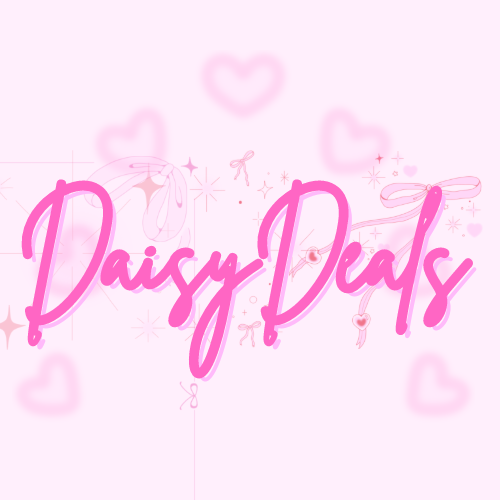
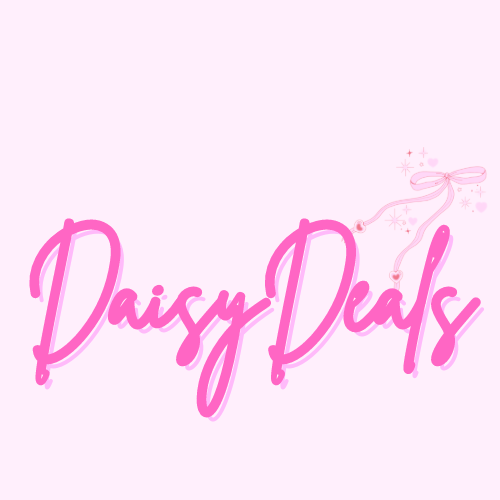
navbar images

diff --git a/src/components/HomePage.css b/src/components/HomePage.css
@@ -1,0 +1,226 @@
+/* General Styling */
+body {
+    margin: 0;
+    font-family: 'Arial', sans-serif;
+    background-color: #FFEFFC; /* Matching the background color */
+    color: #333;
+  }
+  
+  /* Navbar */
+  .navbar {
+    display: flex;
+    justify-content: space-between;
+    align-items: center;
+    background-color: #FFEFFC; /* Light pink background */
+    padding: 10px 20px;
+    box-shadow: 0 2px 4px rgba(0, 0, 0, 0.1);
+    position: sticky;
+    top: 0;
+    z-index: 1000;
+  }
+  
+  .logo img {
+    height: 40px;
+    width: 140px;
+  }
+  
+  .nav-links {
+    list-style: none;
+    display: flex;
+    gap: 20px;
+  }
+  
+  .nav-links li {
+    display: inline;
+  }
+  
+  .nav-links a {
+    text-decoration: none;
+    color: #333;
+    font-size: 1rem;
+    transition: color 0.3s ease;
+  }
+  
+  .nav-links a:hover {
+    color: #FF1493;
+  }
+  
+  .nav-links .new {
+    position: relative;
+  }
+  
+  .nav-links .new span {
+    color: #FF1493;
+    font-size: 0.75rem;
+    position: absolute;
+    top: -10px;
+    right: -20px;
+  }
+  
+  .nav-icons {
+    display: flex;
+    align-items: center;
+    gap: 20px;
+  }
+  
+  .nav-icons a {
+    text-decoration: none;
+    color: #333;
+    font-size: 1rem;
+    display: flex;
+    align-items: center;
+    gap: 5px;
+    transition: color 0.3s ease;
+  }
+  
+  .nav-icons a:hover {
+    color: #FF1493;
+  }
+  
+  .search-box {
+    display: flex;
+    align-items: center;
+    border: 1px solid #ccc;
+    border-radius: 5px;
+    padding: 5px 10px;
+    background-color: #fff;
+  }
+  
+  .search-box input {
+    border: none;
+    outline: none;
+    padding: 5px;
+  }
+  
+  .search-box button {
+    background: none;
+    border: none;
+    cursor: pointer;
+    color: #ccc;
+  }
+  
+  .search-box button:hover {
+    color: #FF1493;
+  }
+  
+  /* Hero Section */
+  .hero-section {
+    background-color: #FFCCE5; /* Light pink background */
+    padding: 50px;
+    text-align: center;
+  }
+  
+  .hero-content {
+    max-width: 600px;
+    margin: 0 auto;
+  }
+  
+  .hero-content h1 {
+    font-size: 2.5rem;
+    color: #FF69B4;
+  }
+  
+  .hero-content p {
+    font-size: 1.2rem;
+    margin: 20px 0;
+  }
+  
+  .shop-now-button {
+    background-color: #FF69B4;
+    color: #fff;
+    border: none;
+    padding: 10px 20px;
+    font-size: 1rem;
+    cursor: pointer;
+    border-radius: 5px;
+    transition: background-color 0.3s ease;
+  }
+  
+  .shop-now-button:hover {
+    background-color: #FF1493;
+  }
+  
+  /* Categories Section */
+  .categories-section {
+    padding: 50px;
+    text-align: center;
+  }
+  
+  .categories-section h2 {
+    font-size: 2rem;
+    color: #FF69B4;
+  }
+  
+  .categories {
+    display: flex;
+    justify-content: center;
+    gap: 20px;
+    margin-top: 20px;
+  }
+  
+  .category {
+    background-color: #FFCCE5;
+    padding: 20px;
+    border-radius: 10px;
+    width: 150px;
+    text-align: center;
+  }
+  
+  .category img {
+    width: 100%;
+    border-radius: 10px;
+  }
+  
+  .category p {
+    margin: 10px 0 0;
+    font-size: 1rem;
+  }
+  
+  /* Featured Products Section */
+  .featured-products-section {
+    padding: 50px;
+    text-align: center;
+  }
+  
+  .featured-products-section h2 {
+    font-size: 2rem;
+    color: #FF69B4;
+  }
+  
+  .featured-products {
+    display: flex;
+    justify-content: center;
+    gap: 20px;
+    margin-top: 20px;
+  }
+  
+  .product-card {
+    background-color: #FFCCE5;
+    padding: 20px;
+    border-radius: 10px;
+    width: 150px;
+    text-align: center;
+  }
+  
+  .product-card img {
+    width: 100%;
+    border-radius: 10px;
+  }
+  
+  .product-card p {
+    margin: 10px 0 0;
+    font-size: 1rem;
+  }
+  
+  /* Footer */
+  .footer {
+    background-color: #FFCCE5;
+    padding: 20px;
+    text-align: center;
+  }
+  
+  .footer p {
+    margin: 0;
+    color: #FF69B4;
+  }
+  

diff --git a/src/components/HomePage.js b/src/components/HomePage.js
@@ -1,0 +1,85 @@
+import React from 'react';
+import './HomePage.css';
+import logo from './logo.png'; // Make sure to use your logo image
+
+const HomePage = () => {
+  return (
+    <div className="home-page">
+      <nav className="navbar">
+        <div className="logo">
+          <img src={logo} alt="Daisy Deals" />
+        </div>
+        <ul className="nav-links">
+          <li><a href="#">MEN</a></li>
+          <li><a href="#">WOMEN</a></li>
+          <li><a href="#">KIDS</a></li>
+          <li><a href="#">HOME & LIVING</a></li>
+          <li><a href="#">BEAUTY</a></li>
+          <li><a href="#" className="new">STUDIO <span>NEW</span></a></li>
+        </ul>
+        <div className="nav-icons">
+          <div className="search-box">
+            <input type="text" placeholder="Search for products, brands and more" />
+            <button type="submit"><i className="fas fa-search"></i></button>
+          </div>
+          <a href="#"><i className="fas fa-user"></i> Profile</a>
+          <a href="#"><i className="fas fa-heart"></i> Wishlist</a>
+          <a href="#"><i className="fas fa-shopping-bag"></i> Bag</a>
+        </div>
+      </nav>
+
+      <header className="hero-section">
+        <div className="hero-content">
+          <h1>Welcome to Daisy Deals!</h1>
+          <p>Discover the best deals on your favorite products.</p>
+          <button className="shop-now-button">Shop Now</button>
+        </div>
+      </header>
+
+      <section className="categories-section">
+        <h2>Shop by Category</h2>
+        <div className="categories">
+          <div className="category">
+            <img src="category1.png" alt="Category 1" />
+            <p>Clothing</p>
+          </div>
+          <div className="category">
+            <img src="category2.png" alt="Category 2" />
+            <p>Accessories</p>
+          </div>
+          <div className="category">
+            <img src="category3.png" alt="Category 3" />
+            <p>Beauty</p>
+          </div>
+        </div>
+      </section>
+
+      <section className="featured-products-section">
+        <h2>Featured Products</h2>
+        <div className="featured-products">
+          <div className="product-card">
+            <img src="product1.png" alt="Product 1" />
+            <p>Product Name</p>
+            <p>$25.00</p>
+          </div>
+          <div className="product-card">
+            <img src="product2.png" alt="Product 2" />
+            <p>Product Name</p>
+            <p>$30.00</p>
+          </div>
+          <div className="product-card">
+            <img src="product3.png" alt="Product 3" />
+            <p>Product Name</p>
+            <p>$45.00</p>
+          </div>
+        </div>
+      </section>
+
+      <footer className="footer">
+        <p>&copy; 2024 Daisy Deals. All rights reserved.</p>
+      </footer>
+    </div>
+  );
+}
+
+export default HomePage;

diff --git a/src/components/LoadingScreen.js b/src/components/LoadingScreen.js
@@ -1,8 +1,17 @@
-import React from 'react';
+import React, { useEffect } from 'react';
+import { useNavigate } from 'react-router-dom';
 import './LoadingScreen.css';
-import logo from './daisy_deals.png'; // Make sure to place your logo in the assets folder
-
+import logo from './daisy_deals.png'; 
 const LoadingScreen = () => {
+  const navigate = useNavigate();
+
+  useEffect(() => {
+    const timer = setTimeout(() => {
+      navigate('/home'); 
+    }, 3500); 
+
+    return () => clearTimeout(timer); // Cleanup the timer if the component unmounts
+  }, [navigate]);
     return (
         <div className="loading-screen">
           <div className="heart glowing-heart" style={{ top: '10%', left: '93%' }}></div>

diff --git a/src/App.js b/src/App.js
@@ -1,11 +1,16 @@
 import React from 'react';
+import { BrowserRouter as Router, Routes, Route } from 'react-router-dom';
 import LoadingScreen from './components/LoadingScreen';
+import HomePage from './components/HomePage';
 
 function App() {
   return (
-    <div className="App">
-      <LoadingScreen />
-    </div>
+    <Router>
+      <Routes>
+        <Route path="/" element={<LoadingScreen />} />
+        <Route path="/home" element={<HomePage />} />
+      </Routes>
+    </Router>
   );
 }
 

diff --git a/public/index.html b/public/index.html
@@ -24,7 +24,9 @@
       work correctly both with client-side routing and a non-root public URL.
       Learn how to configure a non-root public URL by running `npm run build`.
     -->
-    <title>React App</title>
+    <title>Daisy Deals</title>
+    <link rel="stylesheet" href="https://cdnjs.cloudflare.com/ajax/libs/font-awesome/6.0.0-beta3/css/all.min.css" />
+ 
   </head>
   <body>
     <noscript>You need to enable JavaScript to run this app.</noscript>

diff --git a/src/components/LoadingScreen.css b/src/components/LoadingScreen.css
@@ -41,7 +41,7 @@
     justify-content: center;
     align-items: center;
     height: 100vh;
-    background-color: #FFEFFC; /* Light pink background color */
+    background-color: #FFEFFC; 
     position: relative;
     overflow: hidden;
   }
